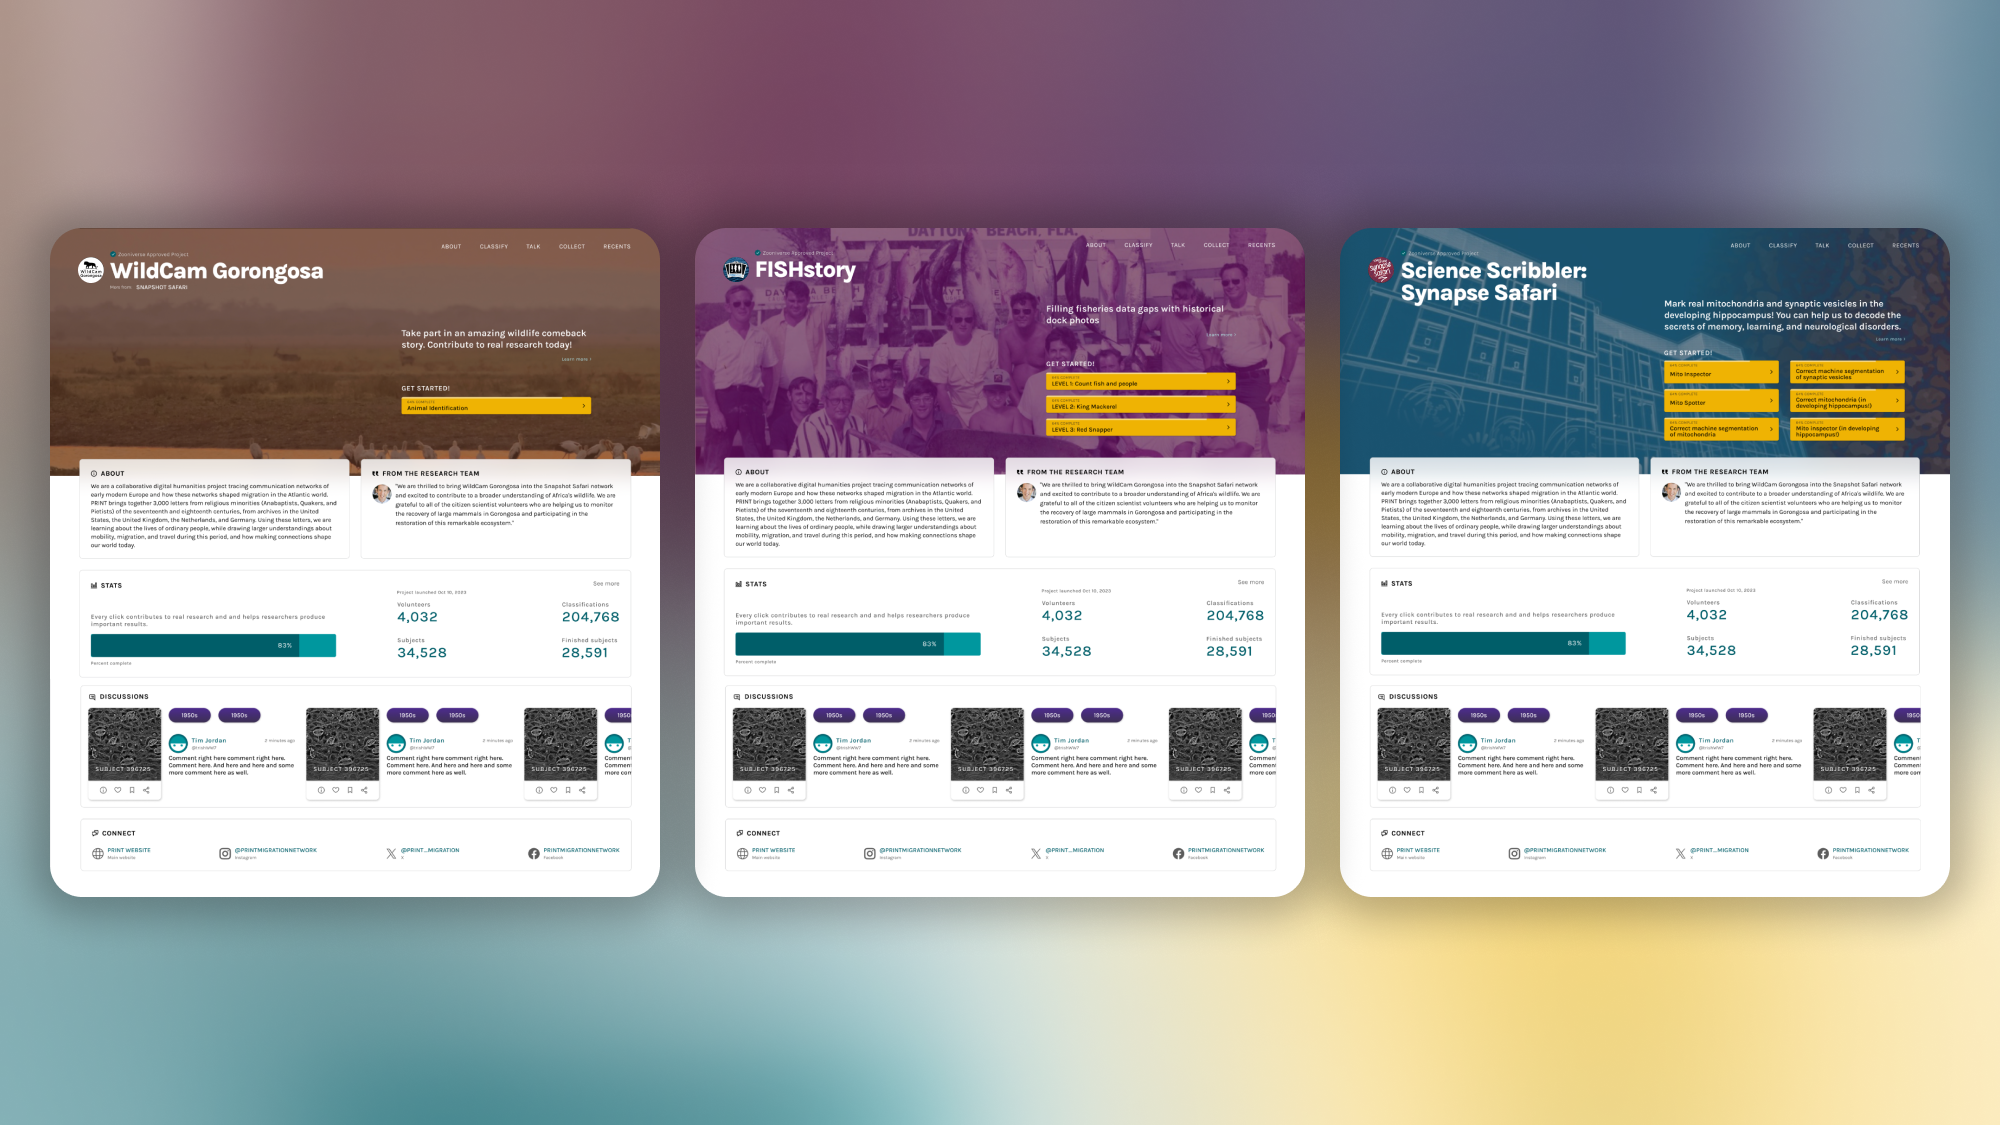
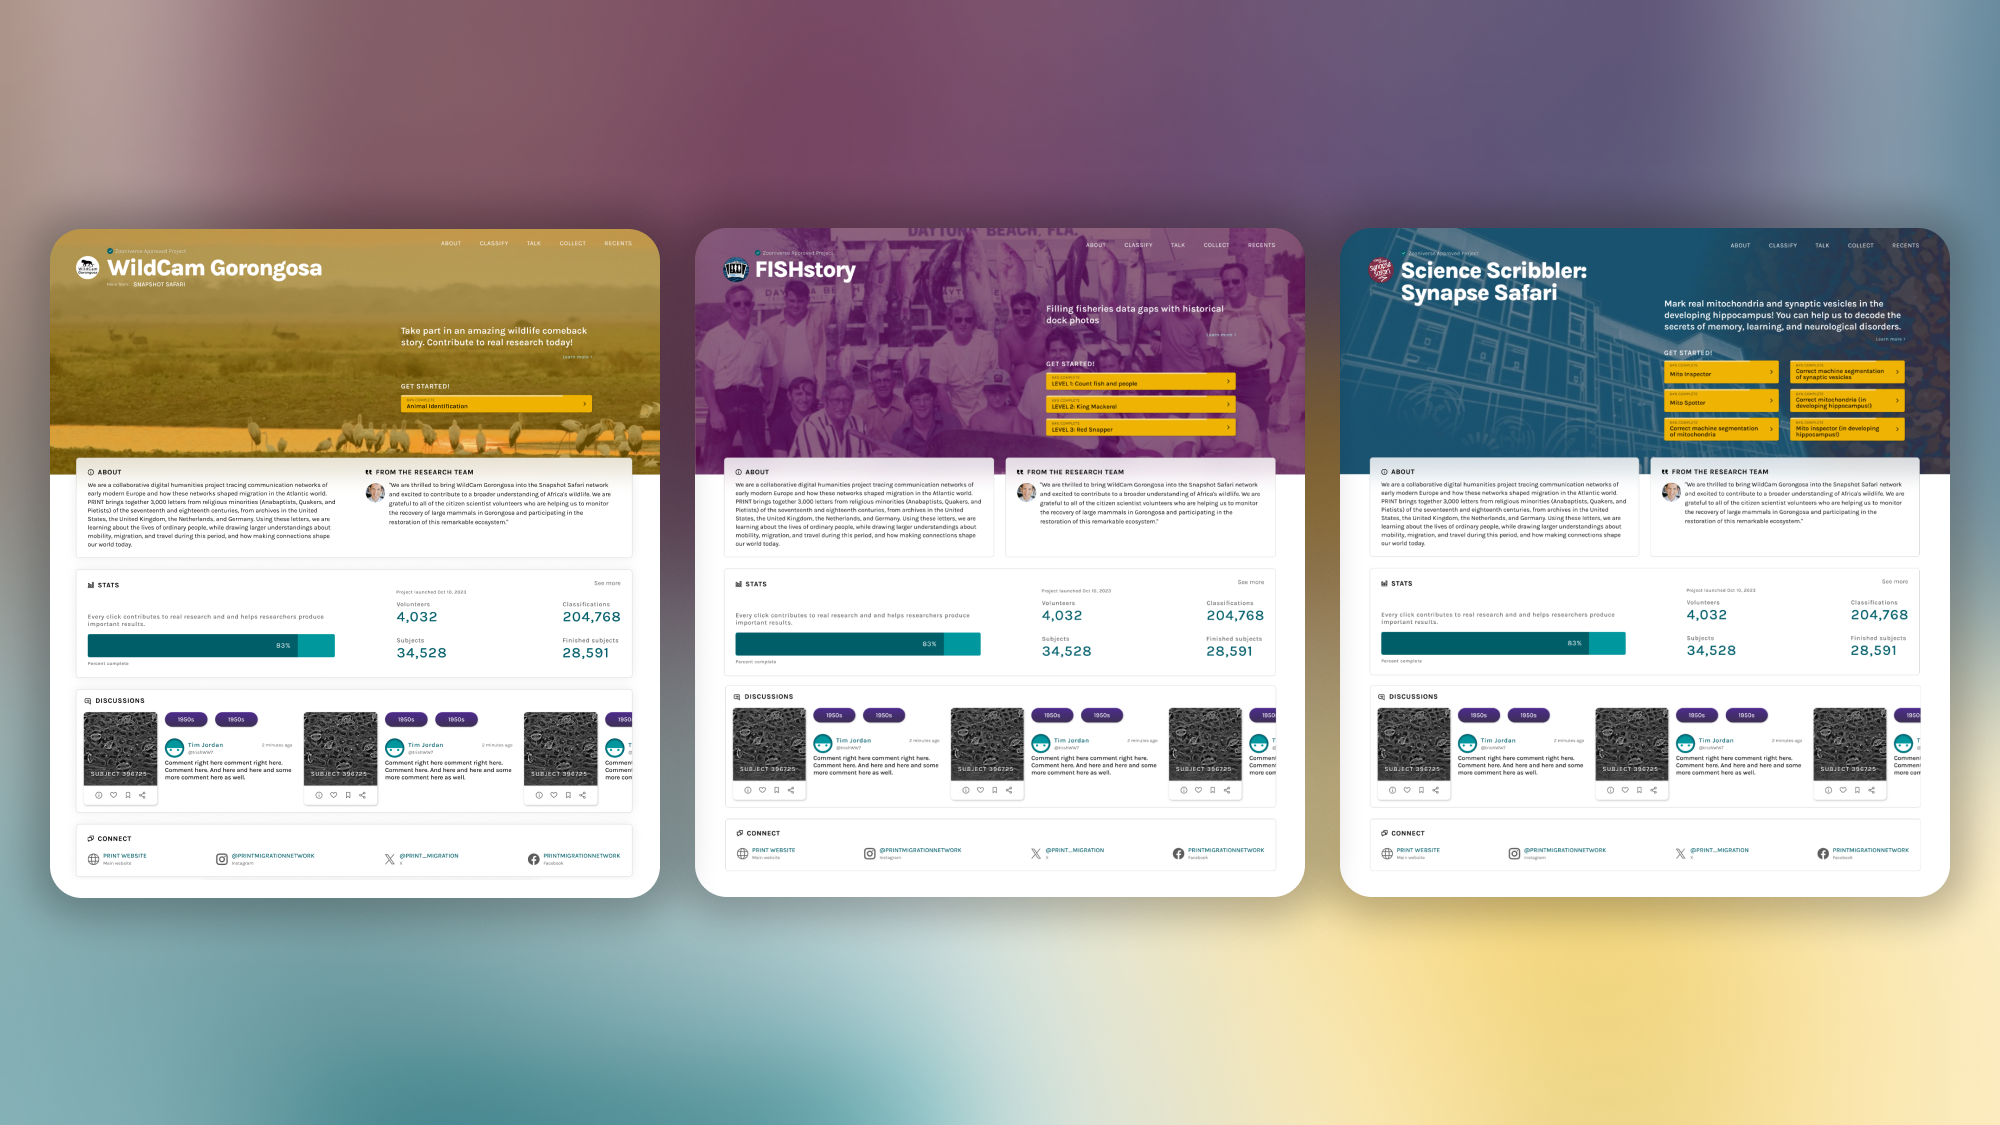
hide discogs link

diff --git a/index.html b/index.html
@@ -63,12 +63,12 @@
                         </svg>
                         GitHub
                     </a>
-                    <a href="https://www.discogs.com/user/sfloyd26/collection" class="social-link" target="_blank">
+                    <div hidden><a href="https://www.discogs.com/user/sfloyd26/collection" class="social-link" target="_blank">
                         <svg class="social-icon" viewBox="0 0 24 24">
                             <path d="M12 0C5.383 0 0 5.383 0 12s5.383 12 12 12 12-5.383 12-12S18.617 0 12 0zm6.857 15.215c-.094.13-.234.179-.37.145-.109-.029-.2-.101-.262-.197-.096-.124-.148-.272-.148-.426 0-.372.301-.672.673-.672.371 0 .672.301.672.672 0 .178-.07.344-.193.463-.067.065-.139.111-.219.128l-.001.012c-.048.007-.097.002-.152-.125zM5.143 8.785c.094-.13.234-.179.37-.145.109.029.2.101.262.197.096.124.148.272.148.426 0 .372-.301.672-.673.672-.371 0-.672-.301-.672-.672 0-.178.07-.344.193-.463.067-.065.139-.111.219-.128l.001-.012c.048-.007.097-.002.152.125zM12 4.5c2.138 0 4.108.892 5.508 2.326L12 12.25 6.492 6.826C7.892 5.392 9.862 4.5 12 4.5zm0 15c-2.138 0-4.108-.892-5.508-2.326L12 11.75l5.508 5.424C16.108 18.608 14.138 19.5 12 19.5z"/>
                         </svg>
                         Discogs
-                    </a>
+                    </a></div hidden>
                 </div>
             </div>
             </div>
